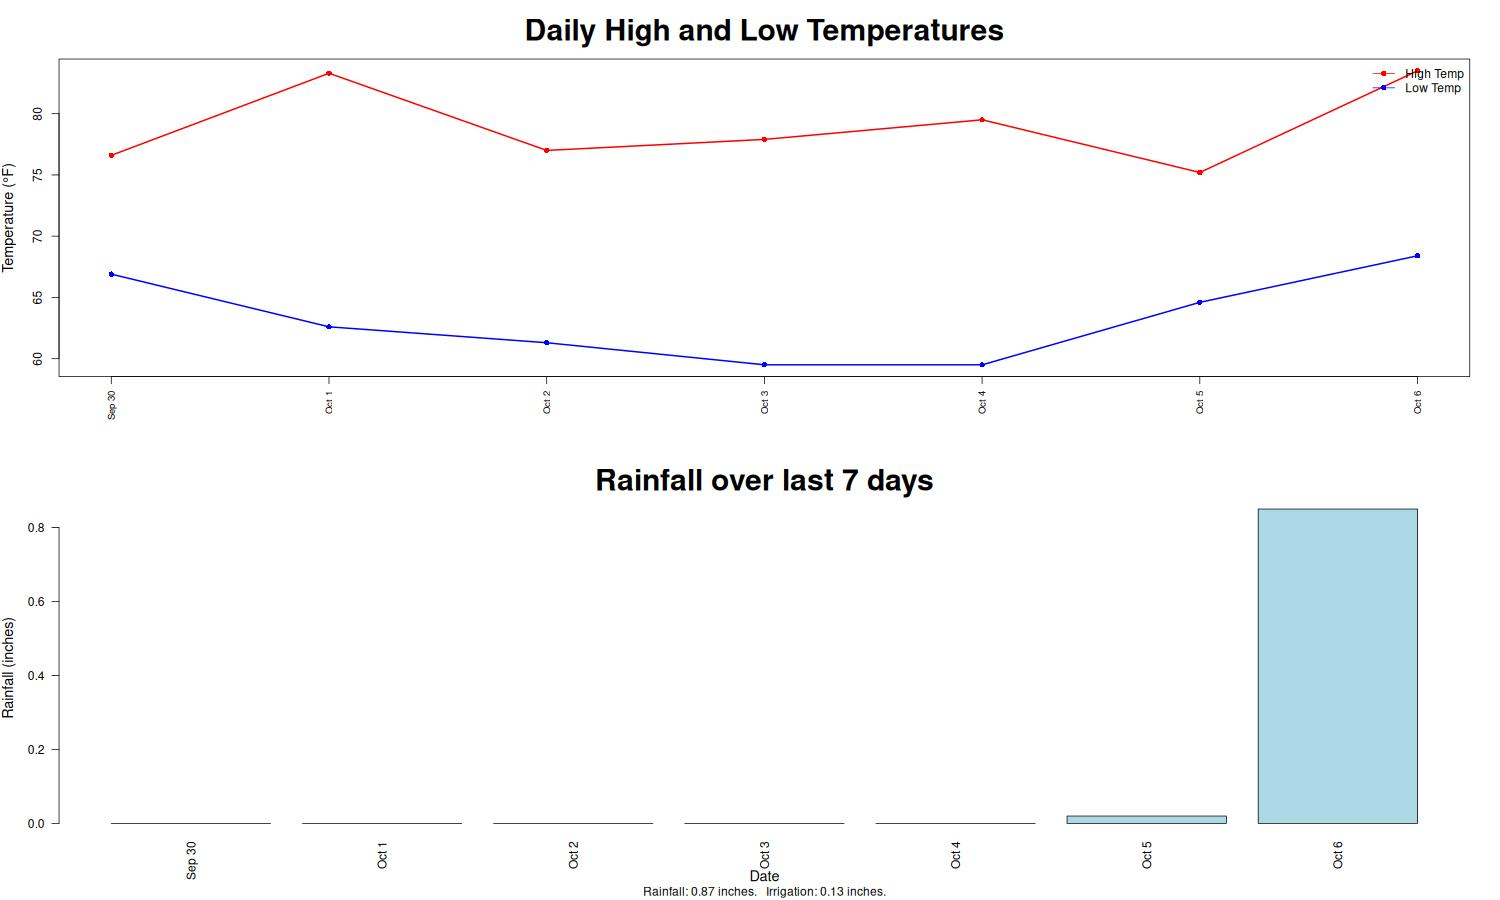
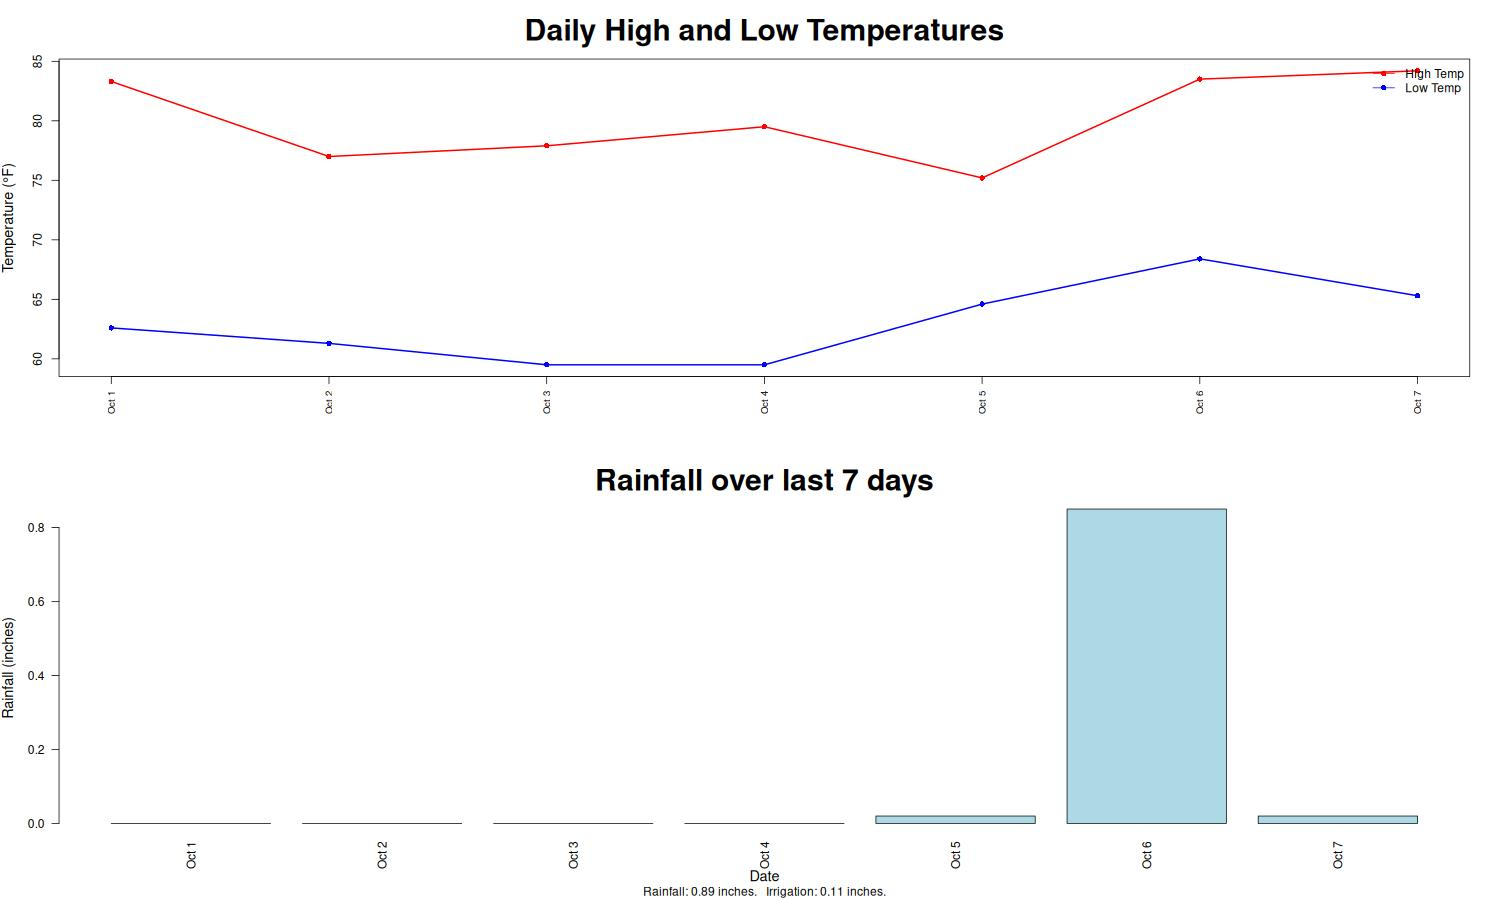
Auto-update rainfall data 2025-10-08 06:10:02 redundant

diff --git a/index.html b/index.html
@@ -14,8 +14,8 @@ img { max-width: 100%; height: auto; }
 <body>
 <h1>Byron, GA, 7 day Rainfall Report</h1>
 <div class="summary">
-<p><strong>Cumulative rainfall for the past week:</strong> 0.87 inches</p>
-<p><strong>Recommended irrigation:</strong> 0.13 inches</p>
+<p><strong>Cumulative rainfall for the past week:</strong> 0.89 inches</p>
+<p><strong>Recommended irrigation:</strong> 0.11 inches</p>
 </div>
 <h2>Detailed Data</h2>
 <table>
@@ -29,13 +29,6 @@ img { max-width: 100%; height: auto; }
   </tr>
  </thead>
 <tbody>
-  <tr>
-   <td style="text-align:left;"> Sep 30 </td>
-   <td style="text-align:left;"> 76.6 </td>
-   <td style="text-align:left;"> 66.9 </td>
-   <td style="text-align:left;"> 86.8 </td>
-   <td style="text-align:right;"> 0.00 </td>
-  </tr>
   <tr>
    <td style="text-align:left;"> Oct 1 </td>
    <td style="text-align:left;"> 83.3 </td>
@@ -78,11 +71,18 @@ img { max-width: 100%; height: auto; }
    <td style="text-align:left;"> 88.1 </td>
    <td style="text-align:right;"> 0.85 </td>
   </tr>
+  <tr>
+   <td style="text-align:left;"> Oct 7 </td>
+   <td style="text-align:left;"> 84.2 </td>
+   <td style="text-align:left;"> 65.3 </td>
+   <td style="text-align:left;"> 88 </td>
+   <td style="text-align:right;"> 0.02 </td>
+  </tr>
 </tbody>
 </table>
 <h2>Temperature and Rainfall Visualization</h2>
 <img src="stats.jpg" alt="Rainfall chart">
 
-<p><em>Last updated: October 07, 2025 14:24:42</em></p>
+<p><em>Last updated: October 08, 2025 06:10:02</em></p>
 </body>
 </html>
